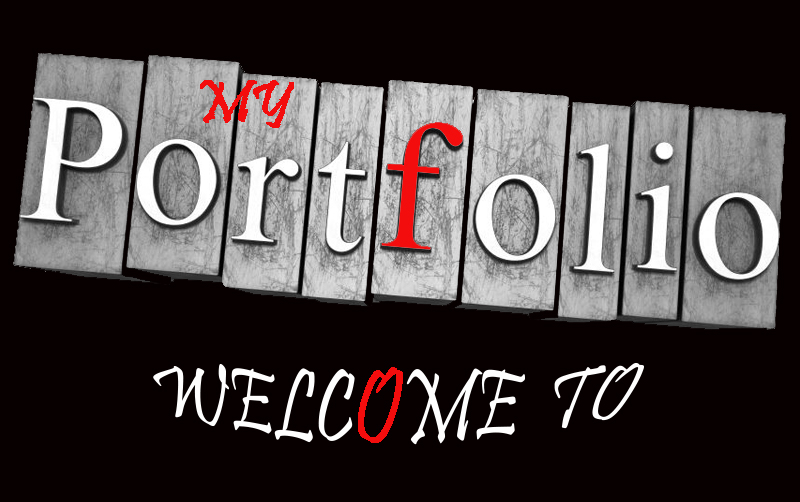
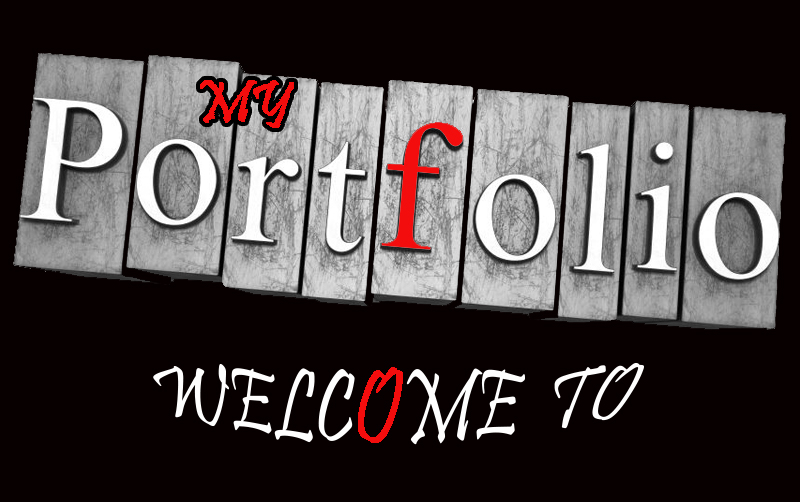
cambiodecolores

Changed region(s): [[0.2188, 0.1494, 0.375, 0.2689]]

diff --git a/proyecto/src/app/components/header/header.component.css b/proyecto/src/app/components/header/header.component.css
@@ -1,5 +1,5 @@
 div{
-    background-color: #a1b5cb;
+    background-color: #9ca7b4;
 }
 app-social{
     float: right;
